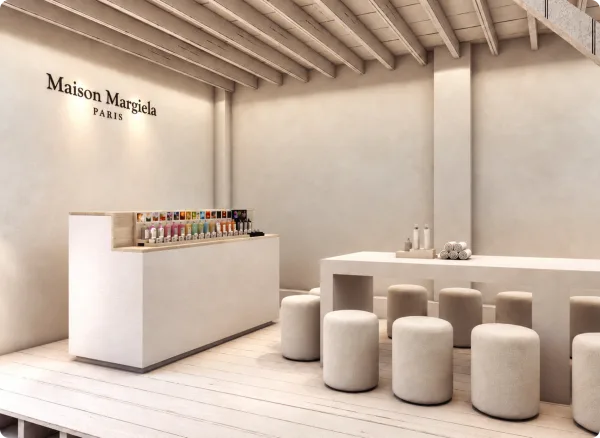
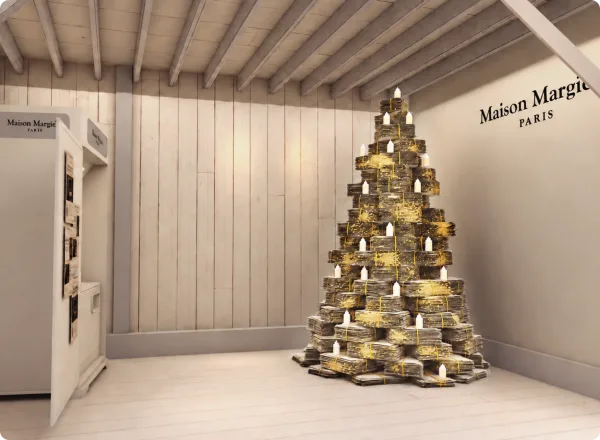
update station photobooth

diff --git a/resources/sass/brand-styles.scss b/resources/sass/brand-styles.scss
@@ -1695,7 +1695,7 @@ textarea::-moz-placeholder,
             color: #333333;
             margin-top: 10px;
             text-align: center;
-            max-width: 110px;
+            max-width: 125px;
         }
     }
 }

diff --git a/app/Http/Controllers/StationController.php b/app/Http/Controllers/StationController.php
@@ -33,7 +33,7 @@ class StationController extends Controller
     $userId = auth()->id() ?? 1;
 
     // Guard last station: redirect to dashboard if other stations are not finished
-    if ($station->is_redemption || $station->id == 8 || $station->slug === 'complimentary-gift') {
+    if ($station->is_redemption || $station->slug === 'complimentary-gift') {
       $nonRedemptionStations = Station::where('is_redemption', false)->pluck('id');
       $completedCount = StationUser::where('user_id', $userId)
         ->whereIn('station_id', $nonRedemptionStations)
@@ -49,12 +49,12 @@ class StationController extends Controller
       ->where("station_id", $station->id)
       ->exists();
 
-    $totalStations = 8;
+    $totalStations = Station::count();
     $completedCount = StationUser::where('user_id', $userId)
       ->distinct('station_id')
       ->count('station_id');
 
-    $allCompleted = ($completedCount >= 8);
+    $allCompleted = ($completedCount >= $totalStations);
 
     return view("station", compact("station", "user", "allCompleted", "completedCount", "totalStations"));
   }
@@ -167,7 +167,7 @@ class StationController extends Controller
       $completedCount = count($completedStationIds);
 
       $nonRedemptionStations = $stations->filter(function ($s) {
-          return empty($s->is_redemption) && $s->id != 8 && $s->slug !== 'complimentary-gift' && $s->slug !== 'redemption-counter';
+          return empty($s->is_redemption) && $s->slug !== 'complimentary-gift' && $s->slug !== 'redemption-counter';
       });
       $nonRedemptionCount = $nonRedemptionStations->count();
       $completedNonRedemptionCount = $nonRedemptionStations->whereIn('id', $completedStationIds)->count();
@@ -188,19 +188,19 @@ class StationController extends Controller
           ]);
       }
 
-      $totalStations = 8;
+      $totalStations = Station::count();
       $completedCount = StationUser::where('user_id', $userId)
           ->distinct('station_id')
           ->count('station_id');
 
-      $isAllCompleted = ($completedCount >= 8);
+      $isAllCompleted = ($completedCount >= $totalStations);
 
       return response()->json([
           'success' => true,
           'message' => 'Station stamped successfully',
           'is_all_completed' => $isAllCompleted,
           'completed_count' => $completedCount,
-          'total_stations' => 8,
+          'total_stations' => $totalStations,
           'redirect_url' => $isAllCompleted ? route('thankyou') : route('dashboard'),
       ]);
   }
@@ -238,14 +238,14 @@ class StationController extends Controller
       }
 
       $currentStation = Station::find($stationId);
-      $totalStations = 8;
+      $totalStations = Station::count();
       $completedCount = StationUser::where('user_id', $userId)
           ->distinct('station_id')
           ->count('station_id');
 
-      $isAllCompleted = ($completedCount >= 8);
+      $isAllCompleted = ($completedCount >= $totalStations);
 
-      // It must strictly be 8 completed stations to redirect to thank you:
+      // It must strictly be all completed stations to redirect to thank you:
       $redirectUrl = ($isAllCompleted)
           ? route('thankyou')
           : route('station', ['station' => $stationId]);
@@ -255,7 +255,7 @@ class StationController extends Controller
           'message' => 'Check-in Successful',
           'is_all_completed' => $isAllCompleted,
           'completed_count' => $completedCount,
-          'total_stations' => 8,
+          'total_stations' => $totalStations,
           'redirect_url' => $redirectUrl,
       ]);
   }

diff --git a/resources/views/thankyou.blade.php b/resources/views/thankyou.blade.php
@@ -1,10 +1,10 @@
 <x-guest-layout>
     <div class="mm-mobile-container text-center">
         {{-- Main Center Area --}}
-        <div class="w-100 my-auto py-3">
+        <div class="w-100 mb-auto py-3">
             {{-- Title Box --}}
             <div class="text-center mb-3">
-                <h1 style="font-size: 1.85rem; letter-spacing: 3px; font-weight: 400; text-transform: uppercase; color: #111111; margin-bottom: 0.75rem;">
+                <h1 class="mm-page-title" >
                     THANK YOU
                 </h1>
                 <p style="font-size: 0.95rem; letter-spacing: 1.5px; font-weight: 400; text-transform: uppercase; color: #333333; margin: 0;">
@@ -15,24 +15,13 @@
             {{-- Divider Line --}}
             <div style="width: 54px; height: 1px; background-color: #888888; margin: 1.5rem auto 1.75rem auto;"></div>
 
-            {{-- Two Feature Icons --}}
-            <div class="mm-thankyou-icons" style="margin: 1.5rem 0; gap: 2rem;">
-                {{-- 1. Purchase Fragrance --}}
-                <a href="https://line.me/R/ti/p/@572ucrnz" target="_blank" rel="noopener noreferrer" class="mm-circle-btn">
-                    <div class="mm-circle-icon" style="width: 80px; height: 80px; background-color: transparent;">
-                        <img src="{{ asset('images/purchase_btn.webp') }}" alt="Purchase fragrance" style="width: 100%; height: 100%; object-fit: contain; display: block;">
-                    </div>
-                    <div class="mm-circle-label" style="font-family: 'Courier Prime', monospace; font-size: 0.7rem; color: #666666; margin-top: 8px; text-transform: none;">
-                        Purchase fragrance
-                    </div>
-                </a>
-
-                {{-- 2. Store Around Me --}}
+            {{-- Feature Button: Store Around Me --}}
+            <div class="mm-thankyou-icons" style="margin: 2.25rem 0;">
                 <a href="{{ asset('pdf/maison_margiela_bangkok_boutique_locations.pdf') }}" target="_blank" rel="noopener noreferrer" class="mm-circle-btn">
-                    <div class="mm-circle-icon" style="width: 80px; height: 80px; background-color: transparent;">
+                    <div class="mm-circle-icon" style="width: 100px; height: 100px; background-color: transparent;">
                         <img src="{{ asset('images/store_btn.webp') }}" alt="Store around me" style="width: 100%; height: 100%; object-fit: contain; display: block;">
                     </div>
-                    <div class="mm-circle-label" style="font-family: 'Courier Prime', monospace; font-size: 0.7rem; color: #666666; margin-top: 8px; text-transform: none;">
+                    <div class="mm-circle-label" style="font-family: 'Courier New', Courier, monospace; font-size: 0.72rem; color: #444444; margin-top: 12px; text-transform: none; letter-spacing: 0.5px;">
                         Store around me
                     </div>
                 </a>
@@ -40,7 +29,7 @@
         </div>
 
         {{-- Bottom Logo --}}
-        <div class="w-100 text-center mt-auto pb-2">
+        <div class="w-100 text-center my-auto pb-2">
             @include('components.branding')
         </div>
     </div>

diff --git a/resources/views/dashboard.blade.php b/resources/views/dashboard.blade.php
@@ -26,7 +26,17 @@
                         {{-- Stations Overlay --}}
                         @php
                             $stationConfigs = [
+                                'photobooth' => [
+                                    'relX' => 35.3, 'relY' => 12.5,
+                                    'side' => 'left',
+                                    'label' => "PHOTOBOOTH",
+                                ],
                                 'redemption-counter' => [
+                                    'relX' => 80.1, 'relY' => 12.5,
+                                    'side' => 'right',
+                                    'label' => "COMPLIMENTARY<br>GIFT",
+                                ],
+                                'complimentary-gift' => [
                                     'relX' => 80.1, 'relY' => 12.5,
                                     'side' => 'right',
                                     'label' => "COMPLIMENTARY<br>GIFT",
@@ -72,7 +82,7 @@
                         @foreach($stations as $stn)
                             @php
                                 $isCompleted = in_array($stn->id, $completedStationIds);
-                                $isRedemption = !empty($stn->is_redemption) || $stn->id == 8 || $stn->slug === 'complimentary-gift' || $stn->slug === 'redemption-counter';
+                                $isRedemption = !empty($stn->is_redemption) || $stn->slug === 'complimentary-gift' || $stn->slug === 'redemption-counter';
                                 $isLocked = $isRedemption && empty($isLastStationUnlocked) && !$isCompleted;
                                 
                                 $cfg = null;
@@ -297,7 +307,7 @@
                     @foreach($stations as $stn)
                         @php
                             $isCompleted = in_array($stn->id, $completedStationIds);
-                            $isRedemption = !empty($stn->is_redemption) || $stn->id == 8 || $stn->slug === 'complimentary-gift' || $stn->slug === 'redemption-counter';
+                            $isRedemption = !empty($stn->is_redemption) || $stn->slug === 'complimentary-gift' || $stn->slug === 'redemption-counter';
                             $isLocked = $isRedemption && empty($isLastStationUnlocked) && !$isCompleted;
                         @endphp
 

diff --git a/resources/views/station.blade.php b/resources/views/station.blade.php
@@ -14,7 +14,7 @@
         {{-- SCREEN 1 & 5: PRE-SCAN OR MEMORY UNLOCKED VIEW --}}
         @php
             $isReplicaCafe = ($station->id == 1 || $station->slug === 'replica-cafe' || strtoupper($station->name) === 'REPLICA CAFE');
-            $isRedemption = ($station->id == 8 || $station->slug === 'redemption-counter' || !empty($station->is_redemption));
+            $isRedemption = ($station->slug === 'redemption-counter' || $station->slug === 'complimentary-gift' || !empty($station->is_redemption));
         @endphp
         <div id="stationDetailView" class="w-100 flex-grow-1 d-flex flex-column justify-content-between">
             <div class="d-flex flex-column flex-grow-1">

diff --git a/database/seeders/StationSeeder.php b/database/seeders/StationSeeder.php
@@ -58,6 +58,13 @@ class StationSeeder extends Seeder
             ],
 
             [
+                'name' => 'PHOTOBOOTH',
+                'slug' => 'photobooth',
+                'description' => "Take home an exclusive Maison Margiela\n\n Fragrances photo moment",
+                'is_redemption' => false,
+            ],
+
+            [
                 'name' => 'COMPLIMENTARY GIFT',
                 'slug' => 'complimentary-gift',
                 'description' => "Find your signature scent.\nRedeem a complimentary REPLICA Mystery Sample Box*.\n\n*Limited to the first 500 redemptions per day.",
